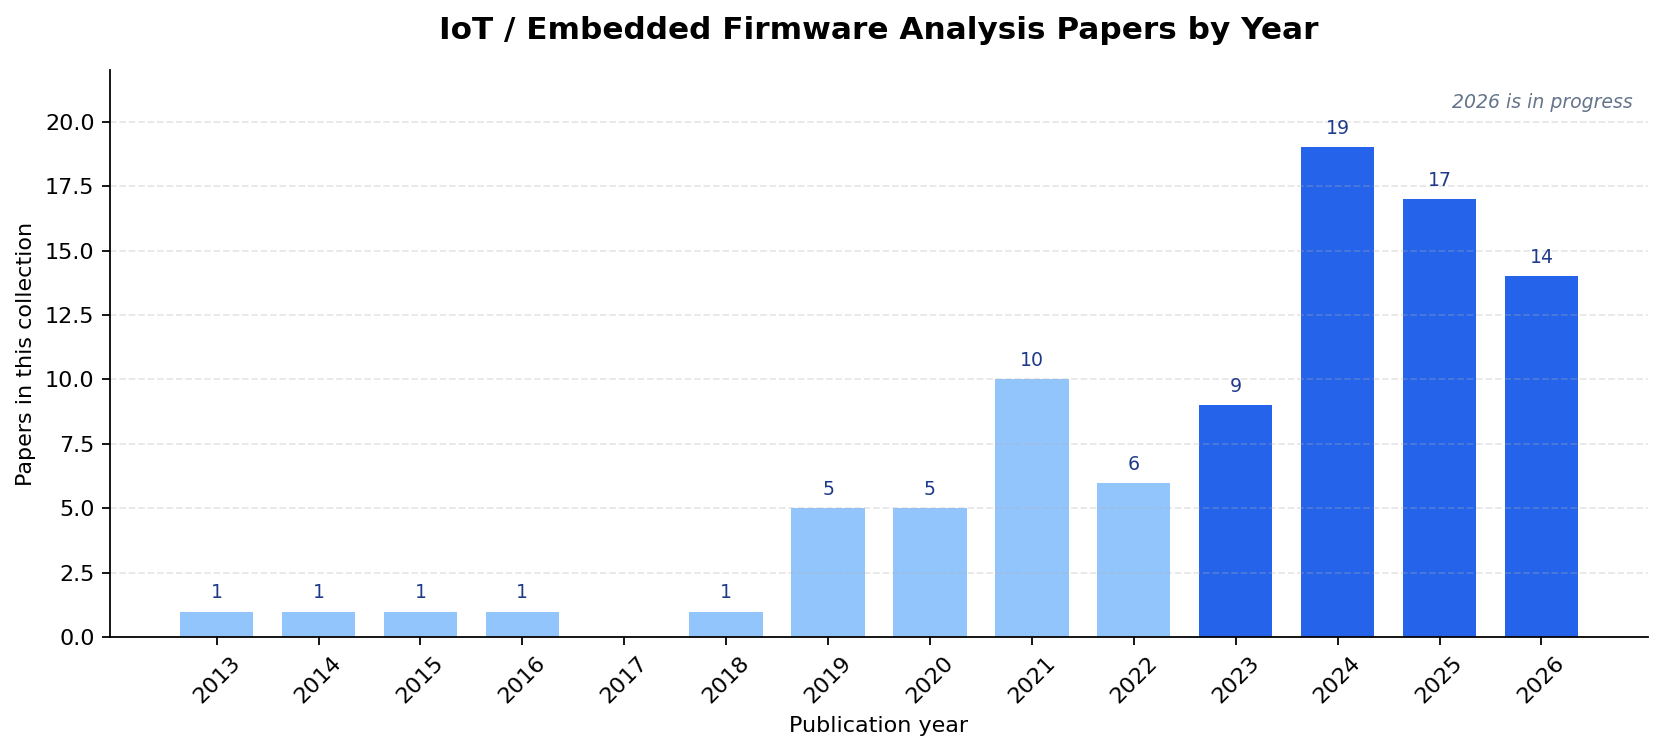
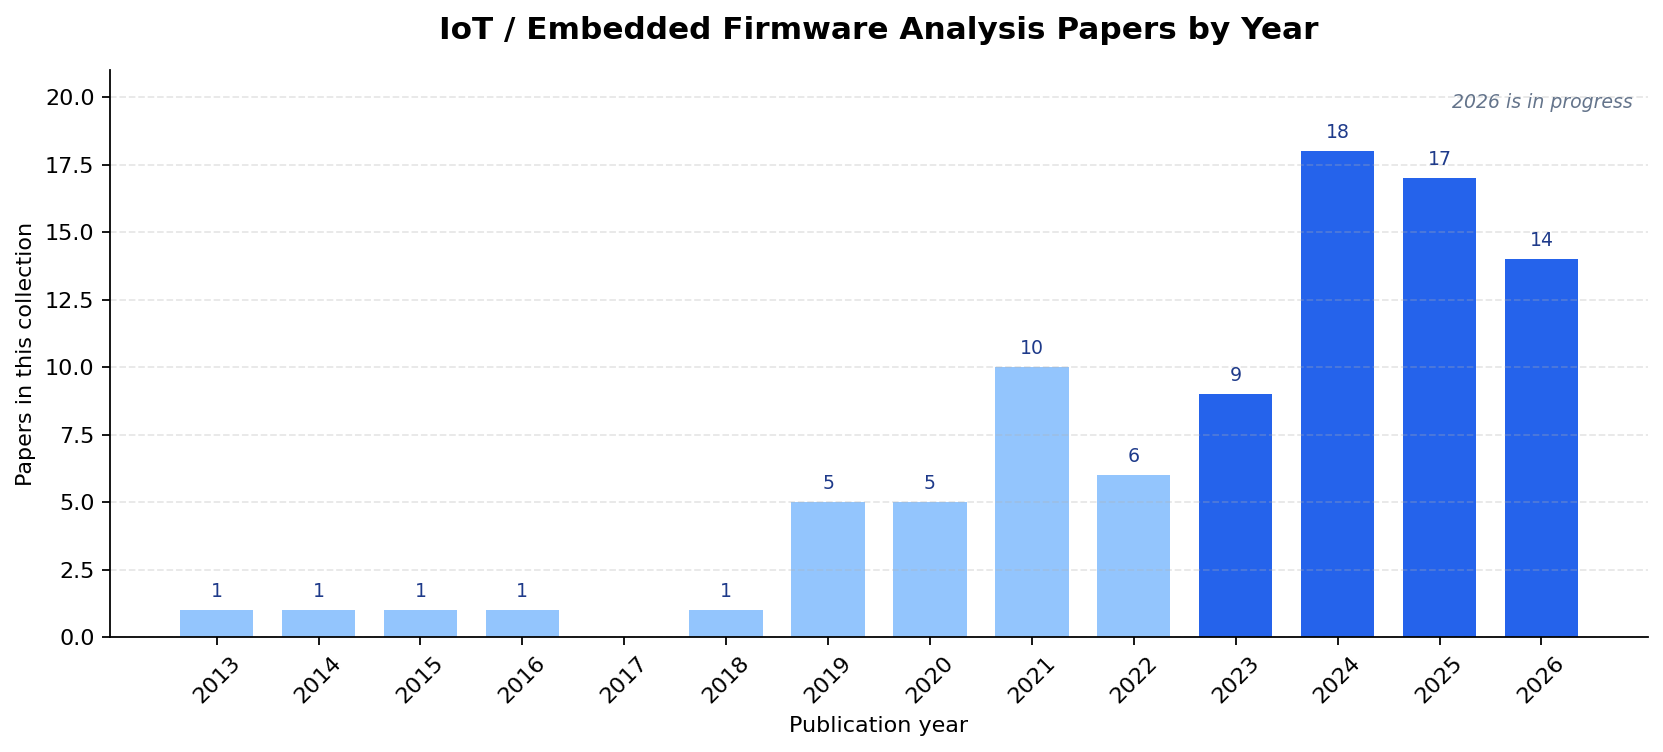
Use USENIX version for SaTC

diff --git a/README.md b/README.md
@@ -1,6 +1,6 @@
 # IoT Firmware Security Papers
 
-![Awesome](https://awesome.re/badge.svg) ![Papers](https://img.shields.io/badge/papers-90-blue) ![Last Updated](https://img.shields.io/badge/updated-2026--09-green) ![PRs Welcome](https://img.shields.io/badge/PRs-welcome-brightgreen)
+![Awesome](https://awesome.re/badge.svg) ![Papers](https://img.shields.io/badge/papers-89-blue) ![Last Updated](https://img.shields.io/badge/updated-2026--09-green) ![PRs Welcome](https://img.shields.io/badge/PRs-welcome-brightgreen)
 
 A curated collection of security research focused on **IoT and embedded firmware vulnerability analysis**. It covers static and taint analysis, binary analysis, fuzzing, symbolic execution, firmware rehosting/emulation, LLM-assisted analysis, and firmware-focused measurement.
 
@@ -11,7 +11,7 @@ A curated collection of security research focused on **IoT and embedded firmware
 | Paper | Core topic | Why read it first |
 |---|---|---|
 | [KARONTE](01-static-analysis-traditional/20-Karonte_Detecting_Insecure_Multi-binary_Interactions_in_Embedded_Firmware.pdf) | Multi-binary data-flow analysis | Establishes how vulnerabilities cross process and binary boundaries in embedded firmware. |
-| [SaTC](https://doi.org/10.1109/TDSC.2023.3307430) | Shared-keyword-aware taint checking | A clear entry into source/sink discovery and embedded-system taint analysis. |
+| [SaTC (USENIX Security 2021)](01-static-analysis-traditional/Chen%20et%20al.%20-%20Sharing%20More%20and%20Checking%20Less%20Leveraging%20Common%20Sanitizer%20Checks.pdf) | Shared-keyword-aware taint checking | A clear entry into source/sink discovery and embedded-system taint analysis. |
 | [EmTaint](01-static-analysis-traditional/23-Detecting%20Vulnerabilities%20in%20Linux-Based%20Embedded%20Firmware%20with%20SSE-Based%20On-Demand%20Alias%20Analysis.pdf) | On-demand alias and taint analysis | Shows how precise binary analysis can scale to Linux-based firmware. |
 | [FirmAgent](https://www.ndss-symposium.org/ndss-paper/firmagent-leveraging-fuzzing-to-assist-llm-agents-with-iot-firmware-vulnerability-discovery/) | LLM agents assisted by fuzzing | Connects classic firmware analysis with the emerging agentic workflow. |
 
@@ -34,7 +34,7 @@ Excluded topics include PLC/ICS-only research, cellular baseband, UEFI, automoti
 
 ## 📊 Overview
 
-**90 papers** indexed across six focused categories.
+**89 papers** indexed across six focused categories.
 
 ![IoT firmware paper trend by year](assets/firmware-paper-trend.png)
 
@@ -78,13 +78,12 @@ Static taint, binary, data-flow, recurring-vulnerability, update, and authentica
 - [LuaTaint: A Static Analysis System for Web Configuration Interface Vulnerability of Internet of Things Devices](01-static-analysis-traditional/23-LuaTaint%20A%20Static%20Taint%20Analysis%20System%20for%20Web.pdf) (LuaTaint, IEEE Internet of Things Journal 2024)
 - [OctopusTaint: Advanced Data Flow Analysis for Detecting Taint-Based Vulnerabilities in IoT/IIoT Firmware](01-static-analysis-traditional/OctopusTaint_Advanced%20Data%20Flow%20Analysis%20for%20Detecting%20taint-based%20vulnerabilities%20in%20iot%20firmware.pdf) (OctopusTaint, ACM CCS 2024)
 - [Operation Mango: Scalable Discovery of Taint-Style Vulnerabilities in Binary Firmware Services](01-static-analysis-traditional/2024%20-%20USENIX%20Security%20-%20Mango.pdf) (Mango, USENIX Security 2024)
-- [SaTC: Shared-Keyword Aware Taint Checking for Detecting Bugs in Embedded Systems](https://doi.org/10.1109/TDSC.2023.3307430) (SaTC, IEEE TDSC 2024)
 - [Your Firmware Has Arrived: A Study of Firmware Update Vulnerabilities](01-static-analysis-traditional/sec24-Your%20Firmware%20Has%20Arrived-A%20Study%20of%20Firmware%20Update%20Vulnerabilities.pdf) (ChkUp, USENIX Security 2024)
 - [Detecting Vulnerabilities in Linux-Based Embedded Firmware with SSE-Based On-Demand Alias Analysis](01-static-analysis-traditional/23-Detecting%20Vulnerabilities%20in%20Linux-Based%20Embedded%20Firmware%20with%20SSE-Based%20On-Demand%20Alias%20Analysis.pdf) (EmTaint, ISSTA 2023)
 - [Systematically Detecting Packet Validation Vulnerabilities in Embedded Network Stacks](https://arxiv.org/abs/2308.10965) (ASE 2023)
 - [VulHawk: Cross-architecture Vulnerability Detection with Entropy-based Binary Code Search](01-static-analysis-traditional/23-VulHawk-Cross-architecture%20Vulnerability%20Detection.pdf) (VulHawk, NDSS 2023)
 - [RapidPatch: Firmware Hotpatching for Real-Time Embedded Devices](01-static-analysis-traditional/sec22-RapidPatch%20Firmware%20Hotpatching%20for%20Real-Time%20Embedded%20Devices.pdf) (RapidPatch, USENIX Security 2022)
-- [Sharing More and Checking Less: Leveraging Common Input Keywords to Detect Bugs in Embedded Systems](01-static-analysis-traditional/Chen%20et%20al.%20-%20Sharing%20More%20and%20Checking%20Less%20Leveraging%20Common%20Sanitizer%20Checks.pdf) (USENIX Security 2021)
+- [Sharing More and Checking Less: Leveraging Common Input Keywords to Detect Bugs in Embedded Systems](01-static-analysis-traditional/Chen%20et%20al.%20-%20Sharing%20More%20and%20Checking%20Less%20Leveraging%20Common%20Sanitizer%20Checks.pdf) (SaTC, USENIX Security 2021)
 - [HALucinator: Firmware Re-hosting Through Abstraction Layer Emulation](01-static-analysis-traditional/sec20-HALucinator_%20Firmware%20re-hosting%20through%20abstraction%20layer%20emulation.pdf) (HALucinator, USENIX Security 2020)
 - [KARONTE: Detecting Insecure Multi-binary Interactions in Embedded Firmware](01-static-analysis-traditional/20-Karonte_Detecting_Insecure_Multi-binary_Interactions_in_Embedded_Firmware.pdf) (Karonte, IEEE S&P 2020)
 

diff --git a/CONTRIBUTING.md b/CONTRIBUTING.md
@@ -123,7 +123,7 @@ Examples:
 
 ```text
 Add Fuzzware (USENIX Security 2022)
-Add SaTC (IEEE TDSC 2024)
+Add SaTC (USENIX Security 2021)
 ```
 
 ## Corrections
